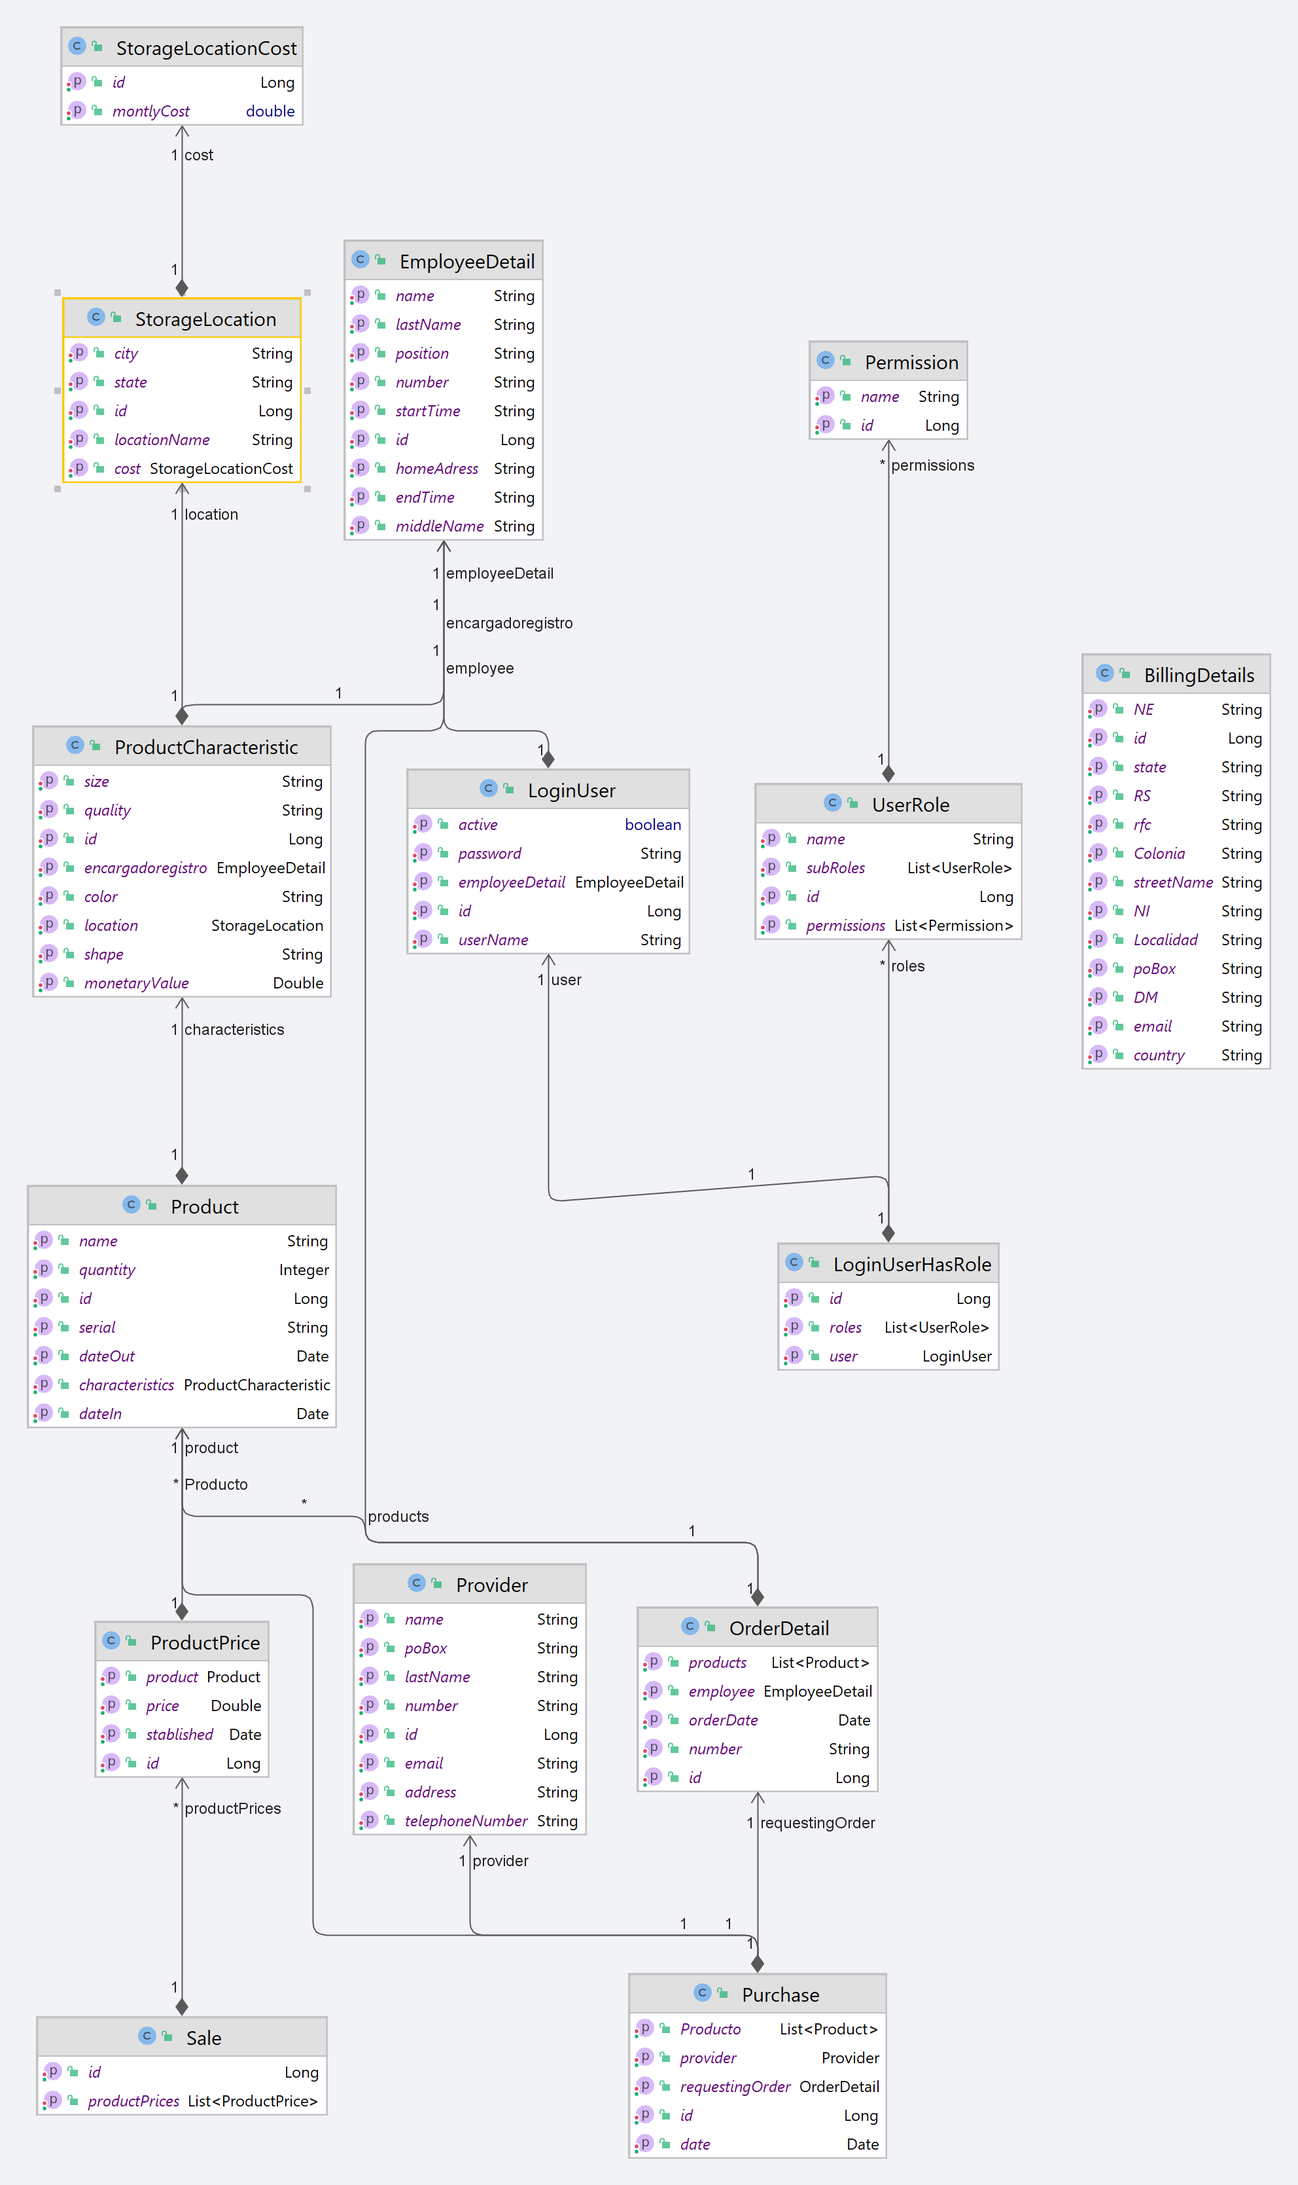
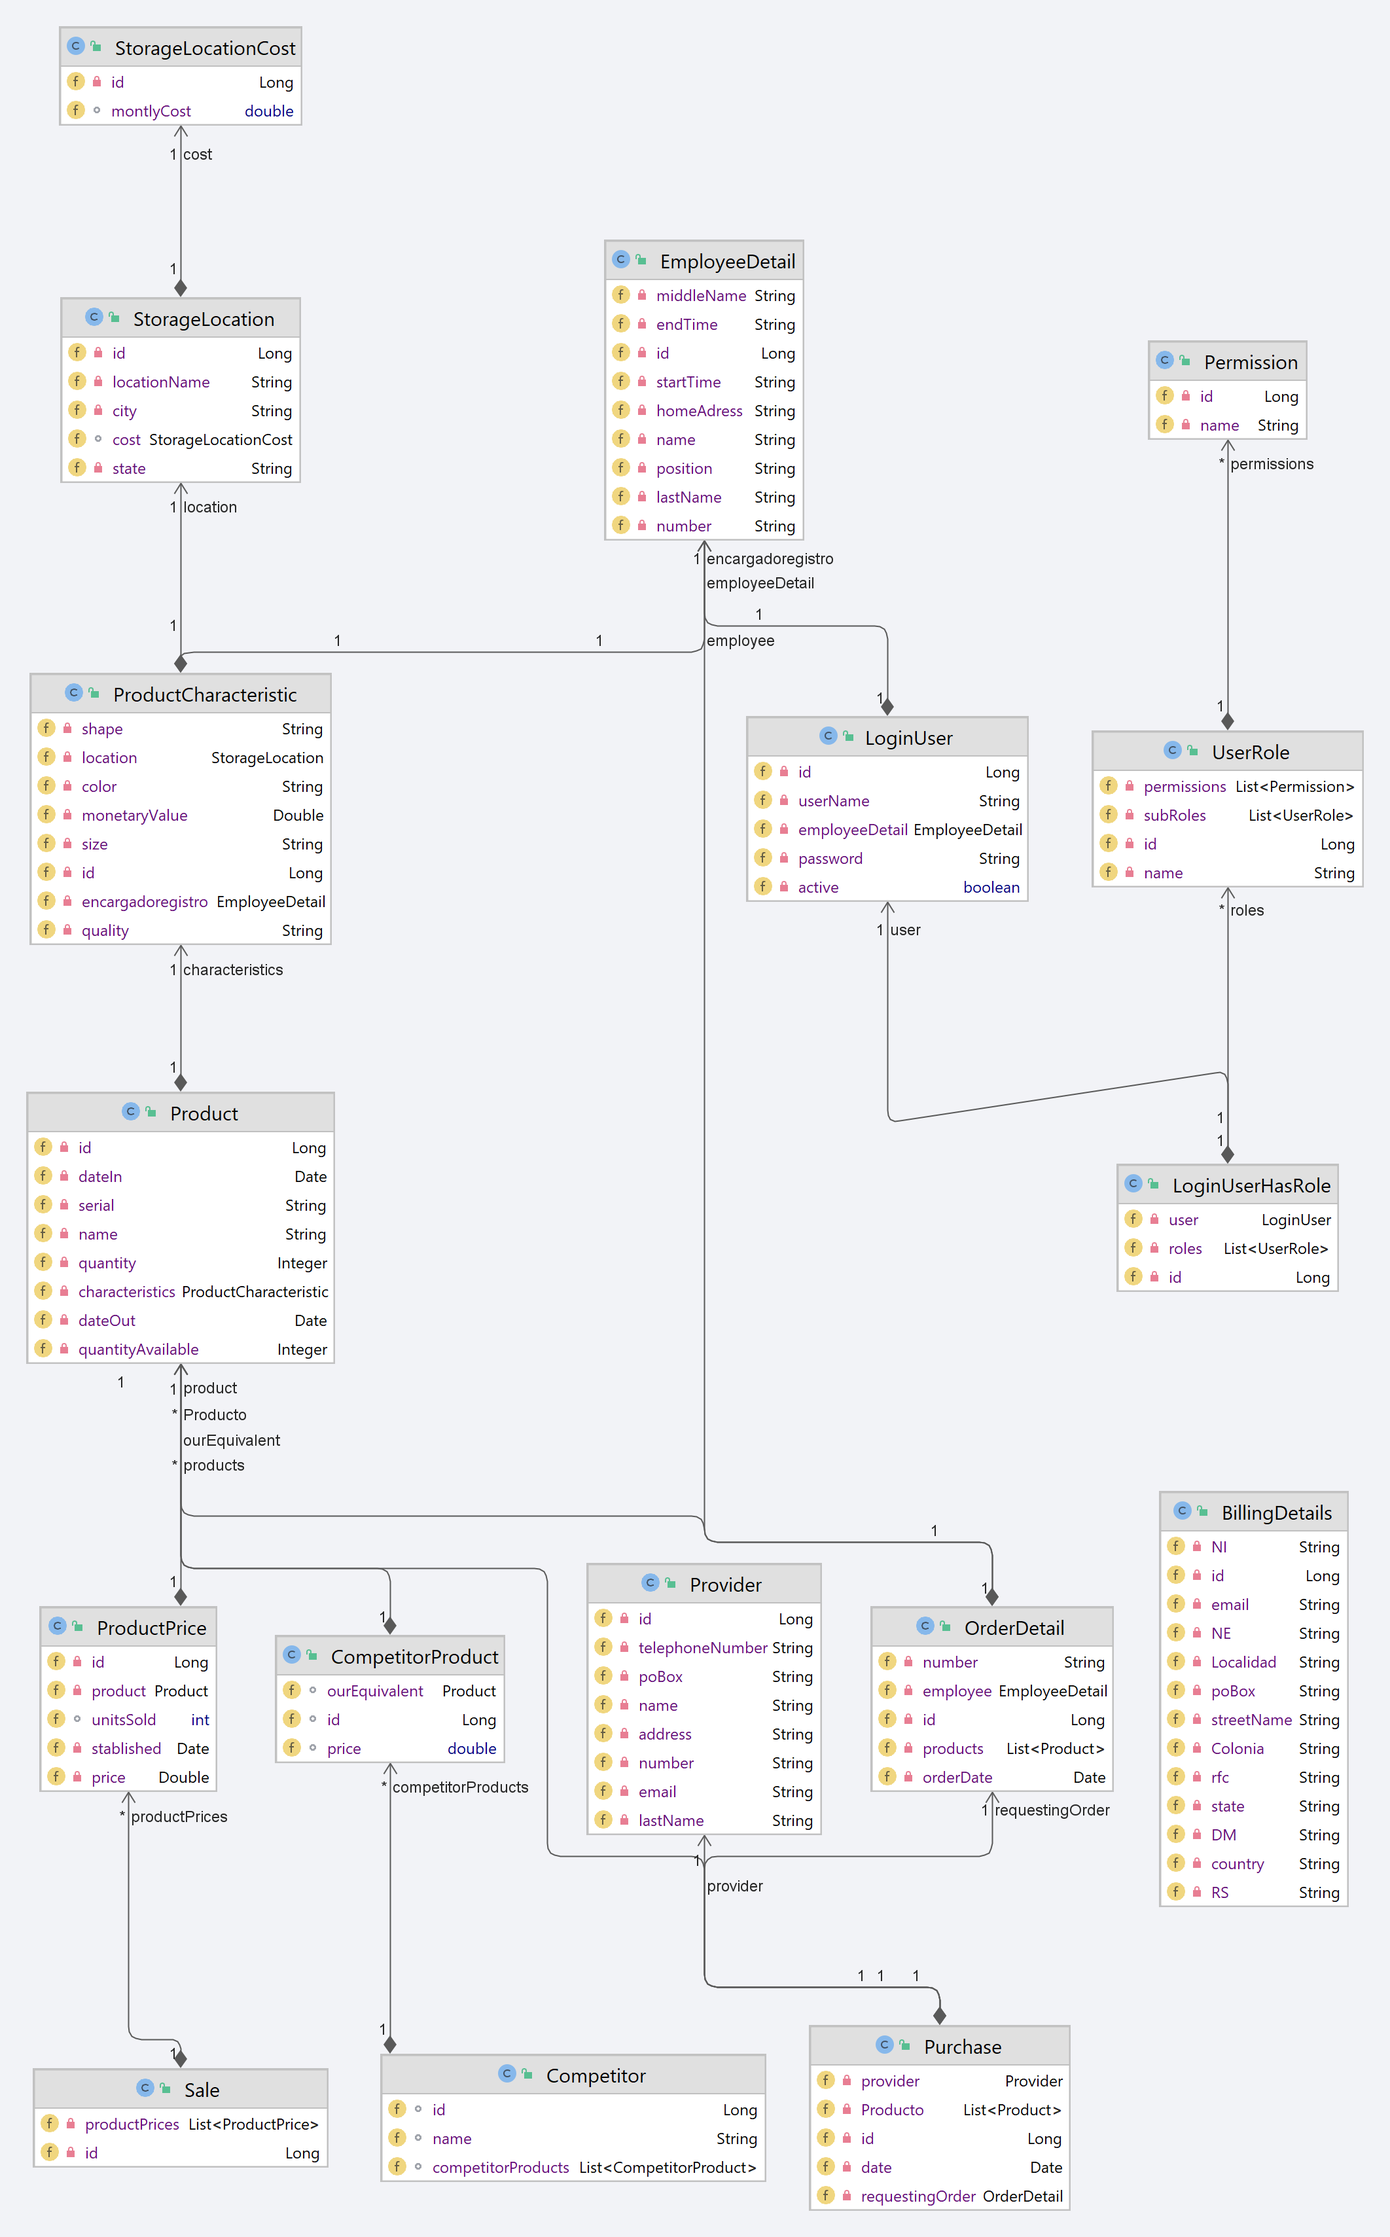
added pricing strategies and competitor info

diff --git a/inventarios-restservice/src/main/java/inventarios/util/DataProvider.java b/inventarios-restservice/src/main/java/inventarios/util/DataProvider.java
@@ -31,6 +31,8 @@ import inventarios.repository.StorageRepository;
 import inventarios.repository.authorization.PermissionRepository;
 import inventarios.repository.authorization.RoleRepository;
 import inventarios.repository.authorization.UserHasRoleRepository;
+import inventarios.repository.competition.CompetitorProductRepository;
+import inventarios.repository.competition.CompetitorRepository;
 import inventarios.to.BillingDetails;
 import inventarios.to.EmployeeDetail;
 import inventarios.to.LoginUser;
@@ -46,6 +48,8 @@ import inventarios.to.StorageLocationCost;
 import inventarios.to.authorization.LoginUserHasRole;
 import inventarios.to.authorization.Permission;
 import inventarios.to.authorization.UserRole;
+import inventarios.to.competition.Competitor;
+import inventarios.to.competition.CompetitorProduct;
 import lombok.AllArgsConstructor;
 import org.springframework.beans.factory.annotation.Autowired;
 import org.springframework.boot.CommandLineRunner;
@@ -110,6 +114,12 @@ public class DataProvider implements CommandLineRunner {
 
     @Autowired
     private BillingRepository billingRepository;
+
+    @Autowired
+    private CompetitorRepository competitorRepository;
+
+    @Autowired
+    private CompetitorProductRepository competitorProductRepository;
 
     @Override
     @Transactional
@@ -191,6 +201,7 @@ public class DataProvider implements CommandLineRunner {
         orderRepository.save(initialStuff);
         purchaseRepository.save(new Purchase(null, Date.from(Instant.now()), provider1, productList1, initialStuff));
 
+        //our products
         ProductCharacteristic cervezaCharacteristics = productDetailsRepository.save(new ProductCharacteristic(null, seanDetails, warehouse1, 2500.5, "cartoon", "brown", "12", "good"));
         Product cervezaSemana1 = productRepository.save(new Product("cerveza", 25, "1231", new Date(), new Date(), cervezaCharacteristics));
         List<Product> productList2 = Arrays.asList(cervezaSemana1);
@@ -202,6 +213,11 @@ public class DataProvider implements CommandLineRunner {
 
         productPrices.add(precioVentaCervezaSemana1);
         salesRepository.save(new Sale(null, productPrices));
+
+        // competitors
+        CompetitorProduct cervezaSemana1Competitor = competitorProductRepository.save(new CompetitorProduct(null, cervezaSemana1, 24.3d));
+        List<CompetitorProduct> competitorProducts = Collections.singletonList(cervezaSemana1Competitor);
+        competitorRepository.save(new Competitor(null, "competitor1", competitorProducts));
 
         boolean sold = productRepository.removeNFromInventory(cervezaSemana1.getId(), precioVentaCervezaSemana1.getUnitsSold());
         System.out.println("sold? " + sold);

diff --git a/inventarios-restservice/src/main/java/inventarios/controller/product/pricing/ProductPriceController.java b/inventarios-restservice/src/main/java/inventarios/controller/product/pricing/ProductPriceController.java
@@ -1,22 +1,44 @@
 package inventarios.controller.product.pricing;
 
+import inventarios.controller.product.pricing.strategy.PricingStrategyFactory;
 import inventarios.service.ProductPriceService;
 import inventarios.to.ProductPrice;
+import io.swagger.annotations.ApiOperation;
+import io.swagger.annotations.ApiParam;
 import org.springframework.beans.factory.annotation.Autowired;
 import org.springframework.data.domain.Page;
 import org.springframework.data.domain.Pageable;
+import org.springframework.web.bind.annotation.GetMapping;
+import org.springframework.web.bind.annotation.PathVariable;
+import org.springframework.web.bind.annotation.PostMapping;
+import org.springframework.web.bind.annotation.RequestBody;
 import org.springframework.web.bind.annotation.RestController;
 
 @RestController
 public class ProductPriceController {
-    @Autowired
-    private ProductPriceService productPriceService;
+  @Autowired private ProductPriceService productPriceService;
+  @Autowired private PricingStrategyFactory pricingStrategyFactory;
 
-    public Page<ProductPrice> findAll(Pageable pageable) {
-        return productPriceService.findAll(pageable);
-    }
+  @ApiOperation(value = "obtains all product prices by page")
+  @GetMapping("/productPrice")
+  public Page<ProductPrice> findAll(Pageable pageable) {
+    return productPriceService.findAll(pageable);
+  }
 
-    public <S extends ProductPrice> S save(S entity) {
-        return productPriceService.save(entity);
-    }
+  @ApiOperation(value = "saves a product price")
+  @PostMapping("/productPrice")
+  public <S extends ProductPrice> S save(@RequestBody S entity) {
+    return productPriceService.save(entity);
+  }
+
+  @ApiOperation(value = "calculates the minimum price based on the specified strategy")
+  @GetMapping("/productPrice/minimum/{strategyName}/{productName}")
+  public double getMinimumPrice(
+      @ApiParam(
+              allowableValues = "COST_BASED_PRICING,COMPETITION_BASED_PRICING,VALUE_BASED_PRICING")
+          @PathVariable
+          String strategyName,
+      @PathVariable String productName) {
+    return pricingStrategyFactory.findByName(strategyName).getMinimumPrice(productName);
+  }
 }

diff --git a/inventarios-restservice/src/main/java/inventarios/controller/competition/CompetitorProductController.java b/inventarios-restservice/src/main/java/inventarios/controller/competition/CompetitorProductController.java
@@ -1,0 +1,42 @@
+package inventarios.controller.competition;
+
+import inventarios.service.competition.CompetitorProductService;
+import inventarios.to.competition.CompetitorProduct;
+import io.swagger.annotations.ApiOperation;
+import org.springframework.beans.factory.annotation.Autowired;
+import org.springframework.web.bind.annotation.DeleteMapping;
+import org.springframework.web.bind.annotation.GetMapping;
+import org.springframework.web.bind.annotation.PathVariable;
+import org.springframework.web.bind.annotation.PostMapping;
+import org.springframework.web.bind.annotation.RequestBody;
+import org.springframework.web.bind.annotation.RestController;
+
+import java.util.List;
+import java.util.Optional;
+
+@RestController
+public class CompetitorProductController {
+    @Autowired
+    private CompetitorProductService competitorProductService;
+
+    @ApiOperation(value = "retrieves all competitor products")
+    @GetMapping("/competitorsProducts")
+    public List<CompetitorProduct> findAll() {
+        return competitorProductService.findAll();
+    }
+
+    @PostMapping("/competitorsProducts")
+    public <S extends CompetitorProduct> S save(@RequestBody S entity) {
+        return competitorProductService.save(entity);
+    }
+
+    @GetMapping("/competitorsProducts/{id}")
+    public Optional<CompetitorProduct> findById(@PathVariable Long id) {
+        return competitorProductService.findById(id);
+    }
+
+    @DeleteMapping("/competitorsProducts/{id}")
+    public void deleteById(@PathVariable Long id) {
+        competitorProductService.deleteById(id);
+    }
+}

diff --git a/inventarios-restservice/src/main/java/inventarios/SpringFoxConfig.java b/inventarios-restservice/src/main/java/inventarios/SpringFoxConfig.java
@@ -2,21 +2,33 @@ package inventarios;
 
 import org.springframework.context.annotation.Bean;
 import org.springframework.context.annotation.Configuration;
+import springfox.documentation.builders.ApiInfoBuilder;
 import springfox.documentation.builders.PathSelectors;
 import springfox.documentation.builders.RequestHandlerSelectors;
+import springfox.documentation.service.ApiInfo;
 import springfox.documentation.spi.DocumentationType;
 import springfox.documentation.spring.web.plugins.Docket;
 
-import org.springframework.context.annotation.Bean;
-
 @Configuration
 public class SpringFoxConfig {
-    @Bean
-    public Docket api() {
-        return new Docket(DocumentationType.SWAGGER_2)
-                .select()
-                .apis(RequestHandlerSelectors.basePackage("inventarios.controller"))
-                .paths(PathSelectors.any())
-                .build();
-    }
+
+  ApiInfo apiInfo() {
+    return new ApiInfoBuilder()
+        .title("My API Title")
+        .description("Inventory management REST API")
+        .license("GPL-3.0")
+        .licenseUrl("https://github.com/javatlacati/Inventarios/blob/master/license.txt")
+        .version("1.0.0-DNAPSHOT")
+        .build();
+  }
+
+  @Bean
+  public Docket api() {
+    return new Docket(DocumentationType.SWAGGER_2)
+        .select()
+        .apis(RequestHandlerSelectors.basePackage("inventarios.controller"))
+        .paths(PathSelectors.any())
+        .build()
+        .apiInfo(apiInfo());
+  }
 }

diff --git a/inventarios-restservice/src/main/java/inventarios/controller/product/pricing/strategy/CostBasedPricing.java b/inventarios-restservice/src/main/java/inventarios/controller/product/pricing/strategy/CostBasedPricing.java
@@ -1,0 +1,35 @@
+package inventarios.controller.product.pricing.strategy;
+
+import inventarios.service.ProductService;
+import inventarios.service.ProviderService;
+import inventarios.to.Product;
+import inventarios.to.ProductCharacteristic;
+import org.springframework.beans.factory.annotation.Autowired;
+import org.springframework.stereotype.Component;
+
+import java.util.Comparator;
+
+// focuses en the cost of production to determine a product
+// increaces profit by increasing quantity
+// simple
+// ignores customer perceptions
+@Component
+public class CostBasedPricing implements PricingStrategy{
+    @Autowired
+    private ProductService productService;
+    @Override
+    public double getMinimumPrice(String productName) {
+        return productService.findAll()
+                .stream()
+                .filter(product -> productName.equalsIgnoreCase(product.getName()))
+                .map(Product::getCharacteristics)
+                .min(Comparator.comparing(ProductCharacteristic::getMonetaryValue))
+                .map(ProductCharacteristic::getMonetaryValue)
+                .orElse(0.0d);
+    }
+
+    @Override
+    public PricingStrategyName getStrategyName() {
+        return PricingStrategyName.COST_BASED_PRICING;
+    }
+}

diff --git a/inventarios-restservice/src/main/java/inventarios/controller/product/pricing/strategy/CompetitionBasedPricing.java b/inventarios-restservice/src/main/java/inventarios/controller/product/pricing/strategy/CompetitionBasedPricing.java
@@ -1,0 +1,32 @@
+package inventarios.controller.product.pricing.strategy;
+
+import inventarios.service.competition.CompetitorProductService;
+import inventarios.to.competition.CompetitorProduct;
+import org.springframework.beans.factory.annotation.Autowired;
+import org.springframework.stereotype.Component;
+
+import java.util.Comparator;
+
+// focuses on competition prices and costs
+// occurs to products that are a commodity
+@Component
+public class CompetitionBasedPricing implements PricingStrategy {
+    @Autowired
+    CompetitorProductService competitorProductService;
+
+    @Override
+    public double getMinimumPrice(String productName) {
+        return competitorProductService
+                .findAll()
+                .stream()
+                .filter(competitorProduct -> productName.equalsIgnoreCase(competitorProduct.getOurEquivalent().getName()))
+                .min(Comparator.comparing(CompetitorProduct::getPrice))
+                .map(CompetitorProduct::getPrice)
+                .orElse(0.0d);
+    }
+
+    @Override
+    public PricingStrategyName getStrategyName() {
+        return PricingStrategyName.COMPETITION_BASED_PRICING;
+    }
+}

diff --git a/inventarios-restservice/src/main/java/inventarios/controller/product/pricing/strategy/PricingStrategyFactory.java b/inventarios-restservice/src/main/java/inventarios/controller/product/pricing/strategy/PricingStrategyFactory.java
@@ -1,0 +1,27 @@
+package inventarios.controller.product.pricing.strategy;
+
+import org.springframework.stereotype.Component;
+
+import java.util.HashMap;
+import java.util.Map;
+import java.util.Set;
+
+@Component
+public class PricingStrategyFactory {
+    private Map<String, PricingStrategy> strategies;
+
+    public PricingStrategyFactory(Set<PricingStrategy> strategySet) {
+        createStrategy(strategySet);
+    }
+
+    private void createStrategy(Set<PricingStrategy> strategySet) {
+        strategies = new HashMap<>();
+        strategySet.forEach(
+                pricingStrategy -> strategies.put(pricingStrategy.getStrategyName().getName(), pricingStrategy)
+        );
+    }
+
+    public PricingStrategy findByName(String name) {
+        return strategies.get(name);
+    }
+}

diff --git a/inventarios-restservice/src/main/java/inventarios/controller/competition/CompetitorController.java b/inventarios-restservice/src/main/java/inventarios/controller/competition/CompetitorController.java
@@ -1,0 +1,22 @@
+package inventarios.controller.competition;
+
+import inventarios.service.competition.CompetitorService;
+import inventarios.to.competition.Competitor;
+import io.swagger.annotations.ApiOperation;
+import org.springframework.beans.factory.annotation.Autowired;
+import org.springframework.web.bind.annotation.GetMapping;
+import org.springframework.web.bind.annotation.RestController;
+
+import java.util.List;
+
+@RestController
+public class CompetitorController {
+    @Autowired
+    private CompetitorService competitorService;
+
+    @ApiOperation(value = "retrieves all competitors")
+    @GetMapping("/competitors")
+    public List<Competitor> findAll() {
+        return competitorService.findAll();
+    }
+}

diff --git a/inventarios-restservice/src/main/java/inventarios/controller/UsersController.java b/inventarios-restservice/src/main/java/inventarios/controller/UsersController.java
@@ -18,6 +18,7 @@ package inventarios.controller;
 
 import inventarios.service.LoginUsersService;
 import inventarios.to.LoginUser;
+import io.swagger.annotations.ApiOperation;
 import lombok.extern.java.Log;
 import org.springframework.beans.factory.annotation.Autowired;
 import org.springframework.web.bind.annotation.PostMapping;
@@ -40,8 +41,8 @@ public class UsersController {
     public UsersController(LoginUsersService loginUsersService) {
         this.loginUsersService = loginUsersService;
     }
-    
-    
+
+    @ApiOperation(value = "adds a new user to the inventory system")
     @PostMapping("/users")
     public <S extends LoginUser> S save(@RequestBody S user) {
         log.log(Level.FINE, "User: {0}", user);

diff --git a/inventarios-restservice/src/main/java/inventarios/controller/product/pricing/strategy/ValueBasedPricing.java b/inventarios-restservice/src/main/java/inventarios/controller/product/pricing/strategy/ValueBasedPricing.java
@@ -1,0 +1,15 @@
+package inventarios.controller.product.pricing.strategy;
+
+// tries to reflect how much a customer is willing to pay
+// includes tangible and intangible benefits
+public class ValueBasedPricing implements PricingStrategy {
+    @Override
+    public double getMinimumPrice(String productName) {
+        return 0; //TODO some logic to see how in our business people react to price changes
+    }
+
+    @Override
+    public PricingStrategyName getStrategyName() {
+        return PricingStrategyName.VALUE_BASED_PRICING;
+    }
+}

diff --git a/inventarios-restservice/src/main/java/inventarios/controller/product/pricing/strategy/PricingStrategyName.java b/inventarios-restservice/src/main/java/inventarios/controller/product/pricing/strategy/PricingStrategyName.java
@@ -1,0 +1,17 @@
+package inventarios.controller.product.pricing.strategy;
+
+public enum PricingStrategyName {
+
+    COST_BASED_PRICING("COST_BASED_PRICING"),
+    COMPETITION_BASED_PRICING("COMPETITION_BASED_PRICING"),
+    VALUE_BASED_PRICING("VALUE_BASED_PRICING");
+    private String name;
+
+    PricingStrategyName(String name) {
+        this.name = name;
+    }
+
+    public String getName() {
+        return name;
+    }
+}

diff --git a/inventarios-restservice/src/main/java/inventarios/controller/product/pricing/strategy/PricingStrategy.java b/inventarios-restservice/src/main/java/inventarios/controller/product/pricing/strategy/PricingStrategy.java
@@ -1,0 +1,7 @@
+package inventarios.controller.product.pricing.strategy;
+
+public interface PricingStrategy {
+    double getMinimumPrice(String productName);
+
+    PricingStrategyName getStrategyName();
+}
